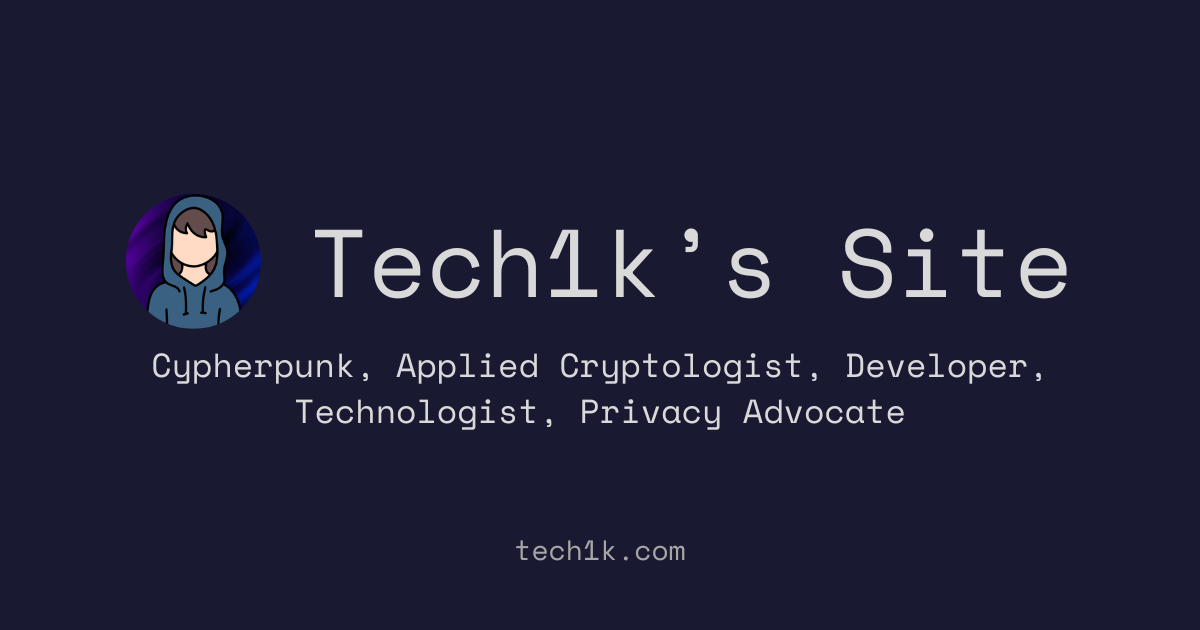
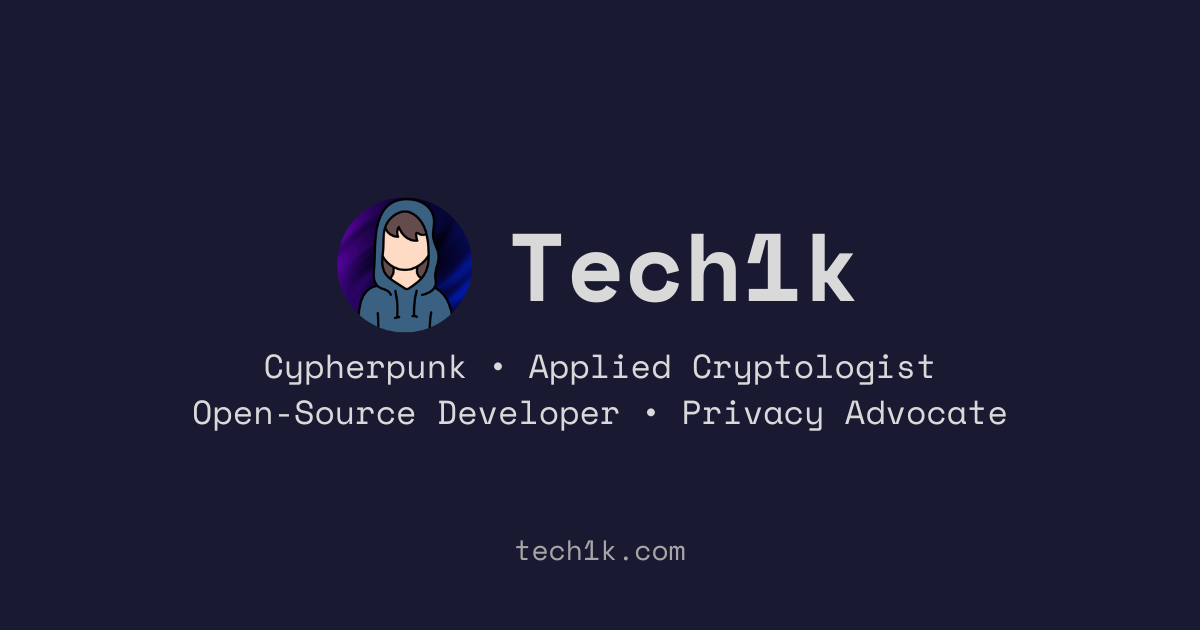
Refresh site positioning, OG card, and projects list

diff --git a/index.html b/index.html
@@ -14,10 +14,10 @@
         <link rel="apple-touch-icon" href="/assets/avatar.png?v=1" />
         <link rel="preload" href="/assets/fonts/inter.woff2" as="font" type="font/woff2" crossorigin>
         <meta property="og:type" content="website">
-        <meta property="og:image" content="https://tech1k.com/assets/og-banner.png?v=2">
+        <meta property="og:image" content="https://tech1k.com/assets/og-banner.png?v=3">
         <meta property="og:image:width" content="1200">
         <meta property="og:image:height" content="630">
-        <meta property="og:image:alt" content="Tech1k's site banner: Cypherpunk, Applied Cryptologist, Developer, Technologist, Privacy Advocate — tech1k.com">
+        <meta property="og:image:alt" content="Tech1k's site banner: Cypherpunk, Applied Cryptologist, Open-Source Developer, Privacy Advocate — tech1k.com">
         <meta property="og:description" content="I'm Tech1k, a developer specializing in web applications and software, with knowledge of databases and blockchain. Cypherpunk and privacy advocate.">
         <meta property="og:title" content="Tech1k — Cypherpunk &amp; Developer">
         <meta property="og:site_name" content="Tech1k">
@@ -25,8 +25,8 @@
         <meta name="twitter:card" content="summary_large_image">
         <meta name="twitter:title" content="Tech1k — Cypherpunk &amp; Developer">
         <meta name="twitter:description" content="I'm Tech1k, a developer specializing in web applications and software, with knowledge of databases and blockchain. Cypherpunk and privacy advocate.">
-        <meta name="twitter:image" content="https://tech1k.com/assets/og-banner.png?v=2">
-        <meta name="twitter:image:alt" content="Tech1k's site banner: Cypherpunk, Applied Cryptologist, Developer, Technologist, Privacy Advocate — tech1k.com">
+        <meta name="twitter:image" content="https://tech1k.com/assets/og-banner.png?v=3">
+        <meta name="twitter:image:alt" content="Tech1k's site banner: Cypherpunk, Applied Cryptologist, Open-Source Developer, Privacy Advocate — tech1k.com">
         <link rel="stylesheet" href="/assets/style.css?v=5">
         <script type="application/ld+json">
         {
@@ -36,8 +36,8 @@
           "url": "https://tech1k.com/",
           "image": "https://tech1k.com/assets/avatar.png",
           "email": "hello@tech1k.com",
-          "jobTitle": "Developer",
-          "description": "Cypherpunk, applied cryptologist, developer, technologist, and privacy advocate.",
+          "jobTitle": "Open-Source Developer",
+          "description": "Cypherpunk, applied cryptologist, open-source developer, and privacy advocate.",
           "sameAs": [
             "https://github.com/tech1k",
             "https://reddit.com/user/Techtoshi"
@@ -53,7 +53,7 @@
                 </div>
                 <div class="intro-text">
                     <h1 class="name">Hello, I'm <span class="name-accent">Tech1k</span></h1>
-                    <p class="tagline">Cypherpunk&nbsp;&middot; Applied Cryptologist&nbsp;&middot; Developer&nbsp;&middot; Technologist&nbsp;&middot; Privacy Advocate</p>
+                    <p class="tagline">Cypherpunk&nbsp;&middot; Applied Cryptologist&nbsp;&middot; Open-Source Developer&nbsp;&middot; Privacy Advocate</p>
                 </div>
             </header>
 
@@ -92,37 +92,37 @@
             <p class="notice">My official accounts are linked here on tech1k.com. I will not contact you through Discord, Signal, Telegram, or X/Twitter; any account claiming to be me there is fake, as I am not on those platforms. I will never ask you for funds, keys, or seed phrases, rush you, or move you to another channel. Still unsure? Verify with my PGP key above.</p>
 
             <section class="sites">
-                <h2 class="section-title">My other sites</h2>
+                <h2 class="section-title">Projects &amp; Infrastructure</h2>
                 <div class="site-group">
                     <span class="site-group-label">Litecoin &amp; MWEB</span>
                     <ul class="site-list">
-                        <li><a class="site-name" href="https://litecoinexplorer.org" rel="noopener">Litecoin Explorer</a> <span class="site-desc">&mdash; Litecoin mainnet block explorer with MWEB support</span></li>
-                        <li><a class="site-name" href="https://mwebscan.com" rel="noopener">MWEBscan</a> <span class="site-desc">&mdash; Litecoin MWEB peg-in/out privacy analysis</span></li>
+                        <li><a class="site-name" href="https://litecoinexplorer.org" rel="noopener">Litecoin Explorer</a> <span class="site-desc">— Litecoin mainnet block explorer with MWEB support</span></li>
+                        <li><a class="site-name" href="https://mwebscan.com" rel="noopener">MWEBscan</a> <span class="site-desc">— Litecoin MWEB peg-in/out privacy analysis</span></li>
                     </ul>
                 </div>
                 <div class="site-group">
                     <span class="site-group-label">Testnet suite</span>
                     <ul class="site-list">
-                        <li><a class="site-name" href="https://cypherfaucet.com" rel="noopener">CypherFaucet</a> <span class="site-desc">&mdash; Testnet coin faucets</span></li>
-                        <li><a class="site-name" href="https://testnetpool.com" rel="noopener">TestnetPool</a> <span class="site-desc">&mdash; Public testnet mining pool</span></li>
-                        <li><a class="site-name" href="https://testnetwallet.net" rel="noopener">TestnetWallet</a> <span class="site-desc">&mdash; In-browser testnet wallet</span></li>
-                        <li><a class="site-name" href="https://testnetscan.com" rel="noopener">TestnetScan</a> <span class="site-desc">&mdash; Multi-chain testnet block explorer</span></li>
-                        <li><a class="site-name" href="https://testnetswap.com" rel="noopener">TestnetSwap</a> <span class="site-desc">&mdash; Non-custodial atomic swaps on testnet</span></li>
+                        <li><a class="site-name" href="https://cypherfaucet.com" rel="noopener">CypherFaucet</a> <span class="site-desc">— Testnet coin faucets</span></li>
+                        <li><a class="site-name" href="https://testnetpool.com" rel="noopener">TestnetPool</a> <span class="site-desc">— Public testnet mining pool</span></li>
+                        <li><a class="site-name" href="https://testnetwallet.net" rel="noopener">TestnetWallet</a> <span class="site-desc">— In-browser testnet wallet</span></li>
+                        <li><a class="site-name" href="https://testnetscan.com" rel="noopener">TestnetScan</a> <span class="site-desc">— Multi-chain testnet block explorer</span></li>
+                        <li><a class="site-name" href="https://testnetswap.com" rel="noopener">TestnetSwap</a> <span class="site-desc">— Non-custodial atomic swaps on testnet</span></li>
                     </ul>
                 </div>
                 <div class="site-group">
                     <span class="site-group-label">Privacy</span>
                     <ul class="site-list">
-                        <li><a class="site-name" href="https://librenode.com" rel="noopener">LibreNode</a> <span class="site-desc">&mdash; Privacy-focused services and tools</span></li>
-                        <li><a class="site-name" href="https://cyphertoshi.com" rel="noopener">CypherToshi</a> <span class="site-desc">&mdash; My blog and tools for privacy and more</span></li>
+                        <li><a class="site-name" href="https://librenode.com" rel="noopener">LibreNode</a> <span class="site-desc">— Privacy-focused services and tools</span></li>
+                        <li><a class="site-name" href="https://cyphertoshi.com" rel="noopener">CypherToshi</a> <span class="site-desc">— My blog and tools for privacy and more</span></li>
                     </ul>
                 </div>
                 <div class="site-group">
                     <span class="site-group-label">Hardware &amp; tools</span>
                     <ul class="site-list">
-                        <li><a class="site-name" href="https://helloesp.com" rel="noopener">HelloESP</a> <span class="site-desc">&mdash; A public website hosted on an ESP32</span></li>
-                        <li><a class="site-name" href="https://desktest.net" rel="noopener">DeskTest</a> <span class="site-desc">&mdash; Browser-based diagnostic tools for front-desk IT</span></li>
-                        <li><a class="site-name" href="https://faucet.duinocoin.com" rel="noopener">DuinoFaucet</a> <span class="site-desc">&mdash; Official Duino-Coin faucet with Magi support</span></li>
+                        <li><a class="site-name" href="https://helloesp.com" rel="noopener">HelloESP</a> <span class="site-desc">— A public website hosted on an ESP32</span></li>
+                        <li><a class="site-name" href="https://desktest.net" rel="noopener">DeskTest</a> <span class="site-desc">— Browser-based diagnostic tools for front-desk IT</span></li>
+                        <li><a class="site-name" href="https://faucet.duinocoin.com" rel="noopener">DuinoFaucet</a> <span class="site-desc">— Official Duino-Coin faucet with Magi support</span></li>
                     </ul>
                 </div>
             </section>
